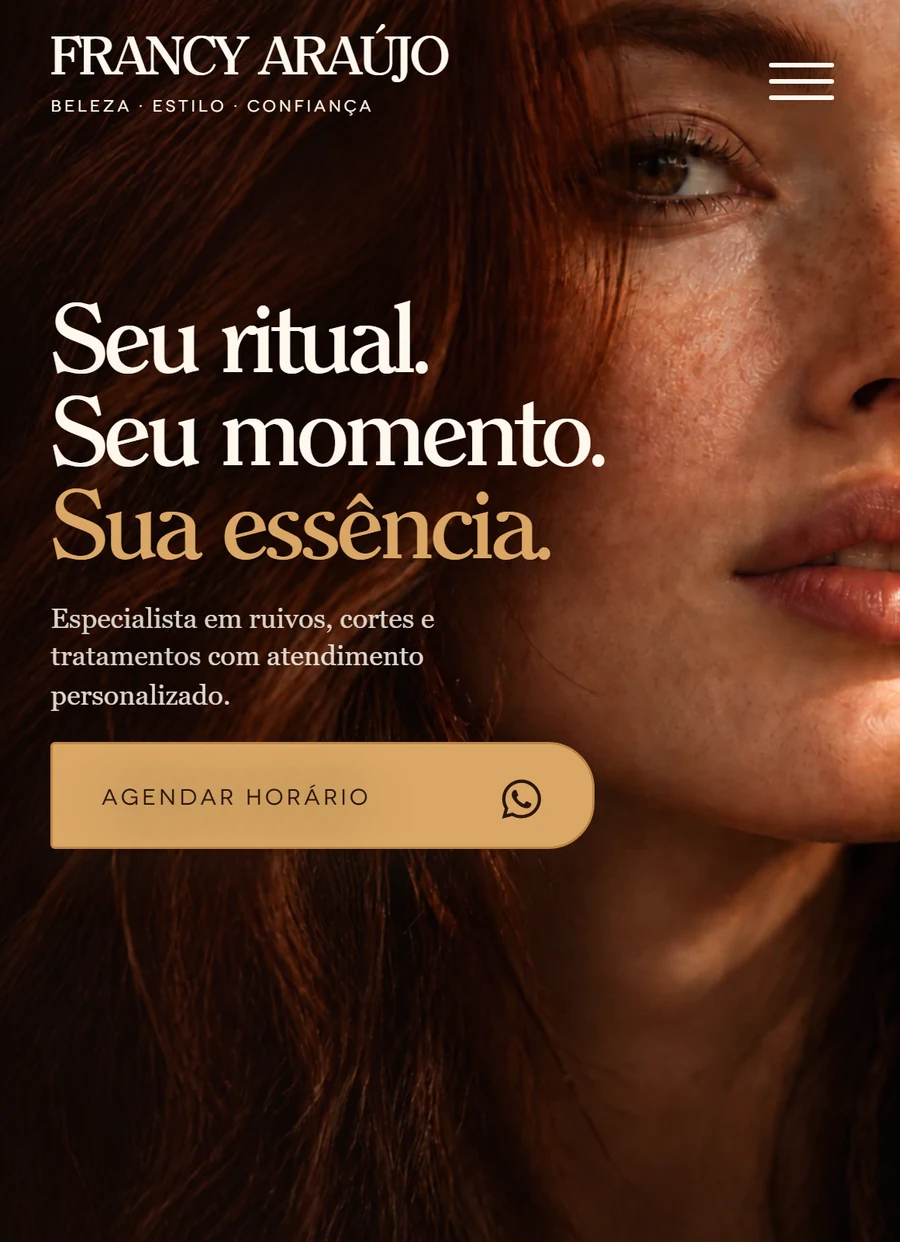
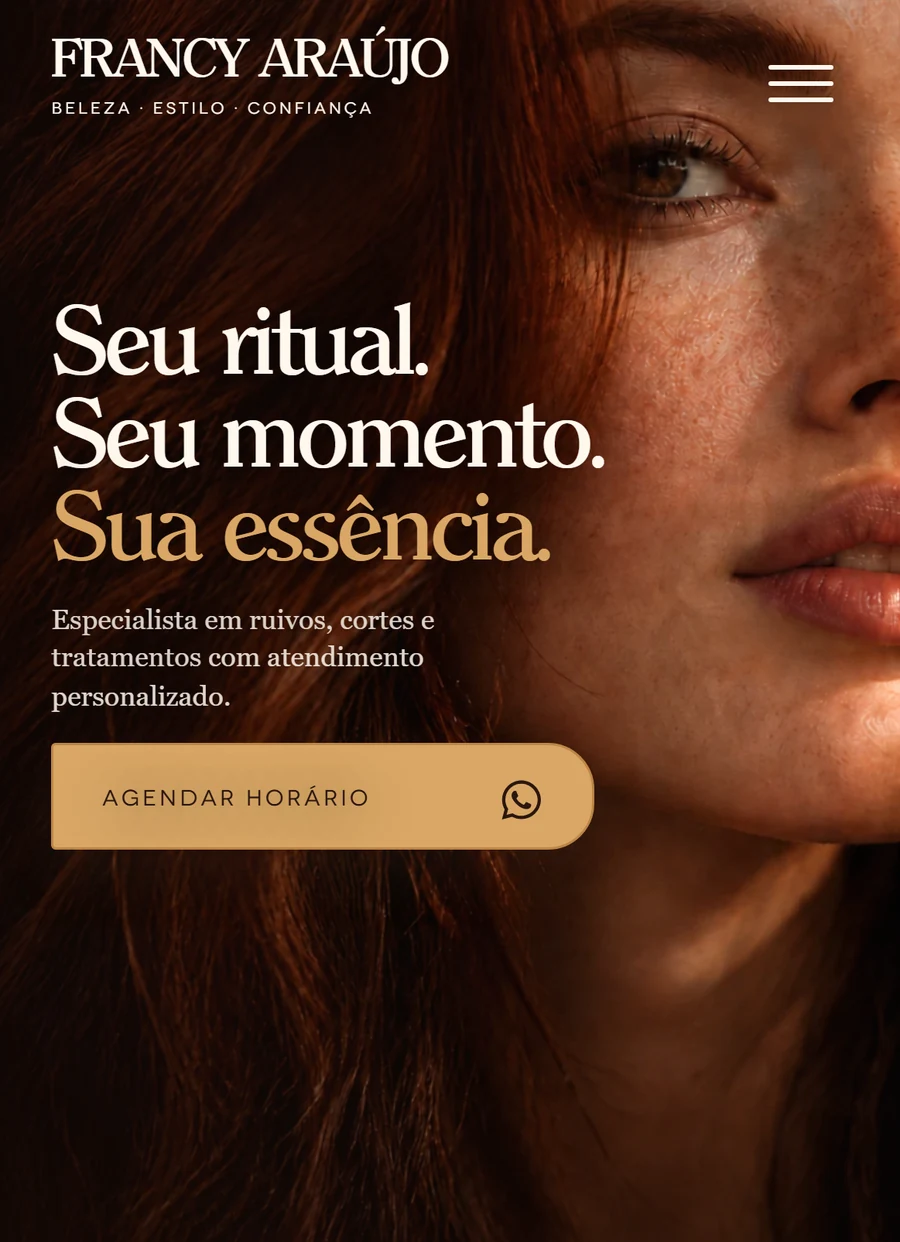
feat: cursores mais lentos montam o Início e a legenda linha a linha; Fran e Gemarium de corpo inteiro

diff --git a/src/features/agentCursors/AgentCursors.tsx b/src/features/agentCursors/AgentCursors.tsx
@@ -26,10 +26,10 @@ const CHECK_MS = 100;
 const SCROLL_REST_MS = 180;
 // A peça já começa fora da tela: espera o fade-in avançar para entrar visível.
 const FADE_LEAD_MS = 260;
-const REACH_MS = 130;
-const PULL_MS = 340;
-const STAGGER_MS = 70;
-const EXIT_MS = 170;
+const REACH_MS = 320;
+const PULL_MS = 760;
+const STAGGER_MS = 180;
+const EXIT_MS = 360;
 const MARGIN = 40;
 const EASE_OUT = "cubic-bezier(0.16, 1, 0.3, 1)";
 
@@ -39,12 +39,14 @@ const point = (x: number, y: number) => `translate(${x}px, ${y}px)`;
 function isReady(element: Element) {
 	if (element.closest(OFF_LIMITS)) return false;
 	if (element instanceof HTMLImageElement && !(element.complete && element.naturalWidth > 0)) return false;
-	if (element.tagName === "IMG" && element.closest("[data-agent-piece]")) return false;
+	const explicit = element.hasAttribute("data-agent-piece");
+	if (!explicit && element.closest("[data-agent-piece]")) return false;
 	const box = element.getBoundingClientRect();
 	const inside = box.top >= -40 && box.left >= -40 && box.right <= innerWidth + 40 && box.bottom <= innerHeight + 40;
-	if (!inside || box.width < 48 || box.height < 48) return false;
+	const minimum = explicit ? 10 : 48;
+	if (!inside || box.width < minimum || box.height < minimum) return false;
 	if (getComputedStyle(element).visibility !== "visible") return false;
-	if (element.hasAttribute("data-agent-piece")) return true;
+	if (explicit) return true;
 	// Ainda atrás da tela de carregamento ou de outra camada: espera aparecer.
 	const hit = document.elementFromPoint(box.left + box.width / 2, box.top + box.height / 2);
 	return Boolean(hit && (element === hit || element.contains(hit) || hit.contains(element)));
@@ -65,7 +67,8 @@ function startSwarm(root: HTMLElement) {
 	const frames = [...root.querySelectorAll<HTMLElement>("[data-agent-frame]")];
 	const motions = new Set<Animation>();
 	let lastScroll = 0;
-	let nextAgent = 0;
+	// Cada agente só pega a próxima peça depois de soltar a anterior.
+	const freeAt = AGENTS.map(() => 0);
 	let working = 0;
 
 	const track = (animation: Animation) => {
@@ -76,13 +79,15 @@ function startSwarm(root: HTMLElement) {
 
 	/** Agente busca a peça fora da tela e a arrasta até o lugar. */
 	const pull = (group: readonly Element[], order: number) => {
-		const index = nextAgent++ % AGENTS.length;
+		const now = performance.now();
+		const index = freeAt.indexOf(Math.min(...freeAt));
 		const cursor = cursors[index];
 		const frame = frames[index];
 		const main = group[0];
 		const box = main.getBoundingClientRect();
 		const offset = entryOffset(box);
-		const delay = FADE_LEAD_MS + order * STAGGER_MS;
+		const delay = Math.max(FADE_LEAD_MS + order * STAGGER_MS, freeAt[index] - now + 60);
+		freeAt[index] = now + delay + REACH_MS + PULL_MS + EXIT_MS;
 		const grabX = box.left + box.width * 0.5;
 		const grabY = box.top + box.height * 0.4;
 		const startX = grabX + offset.x;
@@ -132,9 +137,11 @@ function startSwarm(root: HTMLElement) {
 		if (ready.length === 0) return;
 		const groups = new Map<Element | string, Element[]>();
 		for (const element of ready) {
-			seen.add(element);
-			const name = element.getAttribute("data-agent-piece") || element;
-			groups.set(name, [...(groups.get(name) ?? []), element]);
+			const name = element.getAttribute("data-agent-piece");
+			// Peças com o mesmo nome entram juntas, mesmo a parte que sai da tela.
+			const members = name ? [...document.querySelectorAll(`[data-agent-piece="${CSS.escape(name)}"]`)] : [element];
+			for (const member of members) seen.add(member);
+			groups.set(name || element, members);
 		}
 		[...groups.values()].slice(0, AGENTS.length * 2).forEach((group, order) => pull(group, order));
 	};

diff --git a/src/pages/Mateus/Portfolio/ProjectStage.tsx b/src/pages/Mateus/Portfolio/ProjectStage.tsx
@@ -119,14 +119,14 @@ const STAGES: Partial<Record<PortfolioProjectId, StageConfig>> = {
 	"site-adv": {
 		circle: { x: 197, y: 70, d: 280 },
 		scene: gemariumCena,
-		person: { src: gemariumPessoa, right: 14, top: 46, h: 470 },
+		person: { src: gemariumPessoa, right: 14, top: 46, h: 848 },
 		screens: [{ src: gemariumTela1, x: 258, y: 225, w: 130, bare: true, alt: "Aplicativo do Gemarium" }],
 		caption: { x: 22, y: 96, w: 155 },
 	},
 	"site-cabeleireira": {
 		circle: { x: 206, y: 70, d: 288 },
 		scene: franCena,
-		person: { src: franPessoa, right: 0, top: 50, h: 444, still: true },
+		person: { src: franPessoa, right: -2, top: 47, h: 1050, still: true },
 		screens: [
 			{ src: franTela1, x: 270, y: 275, w: 152, bare: true, alt: "Página inicial do Fran Studio" },
 		],
@@ -239,21 +239,21 @@ export default function ProjectStage({ project }: Readonly<{ project: PortfolioP
 
 			<div
 				className={styles.caption}
-				data-agent-skip=""
 				style={{ left: px(caption.x), top: px(caption.y), width: px(caption.w) }}
 			>
 				{stage.logo === false ? null : (
-						<img className={styles.captionLogo} src={project.logoSrc} alt={localizeLabel(project.logoAlt)} />
+						<img className={styles.captionLogo} src={project.logoSrc} alt={localizeLabel(project.logoAlt)} data-agent-piece="nome" />
 					)}
-				<h2>{localizeLabel(project.name)}</h2>
-				<i aria-hidden="true" />
-				<p>{localizeLabel(project.subtitle)}</p>
+				{/* Cada linha da legenda é trazida por um agente diferente. */}
+				<h2 data-agent-piece="nome">{localizeLabel(project.name)}</h2>
+				<i aria-hidden="true" data-agent-piece="nome" />
+				<p data-agent-piece="">{localizeLabel(project.subtitle)}</p>
 				<ul>
-					<li>
+					<li data-agent-piece="">
 						{localizeLabel(city)}{city === country ? null : ` · ${localizeLabel(country)}`}
 					</li>
-					<li>{localizeLabel(project.year)}</li>
-					<li>{project.technologies.map((technology) => localizeLabel(technology)).join(" · ")}</li>
+					<li data-agent-piece="">{localizeLabel(project.year)}</li>
+					<li data-agent-piece="">{project.technologies.map((technology) => localizeLabel(technology)).join(" · ")}</li>
 				</ul>
 			</div>
 		</div>

diff --git a/src/pages/Mateus/Home/variants/HomeMobile.tsx b/src/pages/Mateus/Home/variants/HomeMobile.tsx
@@ -62,7 +62,7 @@ function HomeMobile() {
           <span className={styles.titleAccent}>{localizeLabel(contactLanguage === "es" ? "IA & Full Stack" : "AI Engineer")}</span>
         </h1>
 
-        <div ref={identityRef} className={styles.identity} data-home-motion="identity">
+        <div ref={identityRef} className={styles.identity} data-home-motion="identity" data-agent-piece="">
           <strong>{localizeLabel("Mateus Cabral")}</strong>
           <span>{localizeLabel("Senior AI Engineer")}</span>
           <span className={styles.availability} data-home-availability="">{localizeLabel("Remoto · CLT ou PJ")}</span>
@@ -129,7 +129,7 @@ function HomeMobile() {
           draggable={false}
         />
 
-        <nav className={styles.actions} data-mobile-contact-actions aria-label={localizeLabel("Ações de contato")}>
+        <nav className={styles.actions} data-mobile-contact-actions data-agent-piece="" aria-label={localizeLabel("Ações de contato")}>
           <a href={getWhatsAppHref(contactLanguage)} target="_blank" rel="noreferrer noopener">
             <FaWhatsapp aria-hidden="true" />
             <span>{localizeLabel("WhatsApp")}</span>

diff --git a/src/pages/Mateus/Home/components/desktop/HeroTextColumn.tsx b/src/pages/Mateus/Home/components/desktop/HeroTextColumn.tsx
@@ -197,11 +197,11 @@ export default function HeroTextColumn({
 		<Col md={5} style={heroTextColumnStyle} className="px-0">
 			<div style={seniorTitleStyle} data-home-motion="eyebrow">{localizeLabel("Senior")}</div>
 
-			<div className="font-sequel" style={roleContainerStyle} data-home-motion="role">
+			<div className="font-sequel" style={roleContainerStyle} data-home-motion="role" data-agent-piece="">
 				<RoleTitle />
 			</div>
 
-			<div style={sealsContainerStyle}>
+			<div style={sealsContainerStyle} data-agent-piece="">
 				{seals.map((seal) => (
 					<div
 						key={seal.key}
@@ -232,7 +232,7 @@ maxHeight: isCompactDesktop ? "32px" : "40px",
 				))}
 			</div>
 
-			<div style={heroActionsWrapperStyle} data-home-motion="actions">
+			<div style={heroActionsWrapperStyle} data-home-motion="actions" data-agent-piece="">
 				<WhatsAppHeroSlot
 					compact={isCompactDesktop}
 					preserveDesktopOffset={!isCompactDesktop}
